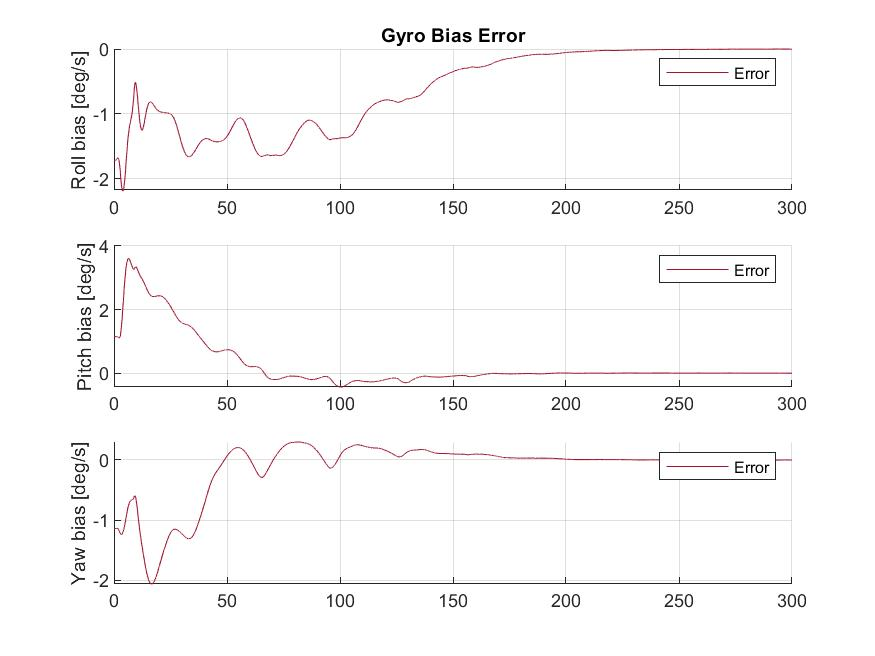
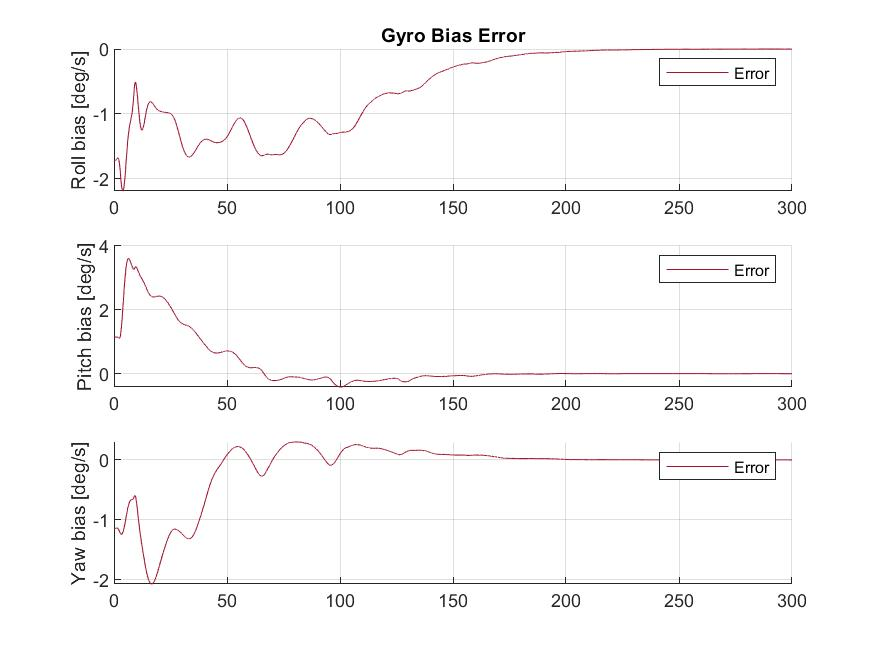
organize and comment code to increase readability a little better:)

diff --git a/ESKF/ErrorStateKalman_sola.m b/ESKF/ErrorStateKalman_sola.m
@@ -5,8 +5,8 @@ function [delta_x, E] = ErrorStateKalman_sola(r_b_1, r_b_2, r_b_3, E_prev,delta_
     Z3 = zeros(3,3);
     I3 = eye(3); 
     
-    Tacc = 1000;
-    Tars = 1000;
+    Tacc = 3600;
+    Tars = 3600;
     
     h = 1/f_low; 
     
@@ -51,22 +51,21 @@ function [delta_x, E] = ErrorStateKalman_sola(r_b_1, r_b_2, r_b_3, E_prev,delta_
        P_hat = diag([1e-1 * ones(1, 3) 1e-2 * ones(1, 3) 5e-2 * ones(1, 3) 1e-10 * ones(1, 3) 1e-6 * ones(1, 3) 1e-6 * ones(1, 3)]);  % Initial error covariance
 
        delta_x = 0;
-%        delta_q = 0;
        
     else
 %             
 %           A = [  Z3    I3        Z3                                   Z3       Z3    Z3    % dp
 %                  Z3    Z3     -R_nb    -R_nb*Smtrx(f_b_imu - bacc_b_ins)       Z3    I3    % dv
 %                  Z3    Z3        Z3                                   Z3       Z3    Z3    % dbacc
-%                  Z3    Z3        Z3      -Smtrx(omega_b_imu - bars_b_ins)     -I3    Z3    % dtheta ???????
+%                  Z3    Z3        Z3      -Smtrx(omega_b_imu - bars_b_ins)     -I3    Z3    % dtheta
 %                  Z3    Z3        Z3                                   Z3       Z3    Z3    % dbars
 %                  Z3    Z3        Z3                                   Z3       Z3    Z3] ; % dg
             
-          A = [  Z3    I3            Z3                                       Z3           Z3  Z3  % dp
-                 Z3    Z3     -R_nb_hat    -R_nb_hat*Smtrx(f_b_imu - bacc_b_ins)           Z3  I3 % dv
-                 Z3    Z3  -(1/Tacc)*I3                                       Z3           Z3  Z3 % dbacc
-                 Z3    Z3            Z3         -Smtrx(omega_b_imu - bars_b_ins)          -I3  Z3 % dtheta ???????
-                 Z3    Z3            Z3                                       Z3 -(1/Tacc)*I3  Z3   % dbars
+          A = [  Z3    I3            Z3                                       Z3           Z3  Z3   % dp
+                 Z3    Z3     -R_nb_hat    -R_nb_hat*Smtrx(f_b_imu - bacc_b_ins)           Z3  I3   % dv
+                 Z3    Z3  -(1/Tacc)*I3                                       Z3           Z3  Z3   % dbacc
+                 Z3    Z3            Z3         -Smtrx(omega_b_imu - bars_b_ins)          -I3  Z3   % dtheta
+                 Z3    Z3            Z3                                       Z3 -(1/Tars)*I3  Z3   % dbars
                  Z3    Z3            Z3                                       Z3           Z3  Z3]; % dg
              
             
@@ -82,24 +81,26 @@ function [delta_x, E] = ErrorStateKalman_sola(r_b_1, r_b_2, r_b_3, E_prev,delta_
 %           H = [ I3 Z3 Z3 Z3 Z3 Z3
 %                 I3 Z3 Z3 I3 Z3 Z3];
 
-          % Ground Speed 
-          z13 = [0 0 0];
+          % Ground Speed           
+          H_gss_pos = [ 0, 0, 0];
+          H_gss_vel = [(R_nb_hat(1,2)*(R_nb_hat(1,2)*v_n_ins(1) + R_nb_hat(2,2)*v_n_ins(2) + R_nb_hat(3,2)*v_n_ins(3) - bars_b_ins(2)*r_b_3(1) + bars_b_ins(1)*r_b_3(3) - omega_b_imu(1)*r_b_3(3) + omega_b_imu(3)*r_b_3(1)) + R_nb_hat(1,1)*(R_nb_hat(1,1)*v_n_ins(1) + R_nb_hat(1,3)*v_n_ins(2) + R_nb_hat(2,3)*v_n_ins(3) + bars_b_ins(2)*r_b_3(2) - bars_b_ins(2)*r_b_3(3) + omega_b_imu(2)*r_b_3(3) - omega_b_imu(3)*r_b_3(2)))/((R_nb_hat(1,2)*v_n_ins(1) + R_nb_hat(2,2)*v_n_ins(2) + R_nb_hat(3,2)*v_n_ins(3) - bars_b_ins(2)*r_b_3(1) + bars_b_ins(1)*r_b_3(3) - omega_b_imu(1)*r_b_3(3) + omega_b_imu(3)*r_b_3(1))^2 + (R_nb_hat(1,1)*v_n_ins(1) + R_nb_hat(1,3)*v_n_ins(2) + R_nb_hat(2,3)*v_n_ins(3) + bars_b_ins(2)*r_b_3(2) - bars_b_ins(2)*r_b_3(3) + omega_b_imu(2)*r_b_3(3) - omega_b_imu(3)*r_b_3(2))^2)^(1/2), (R_nb_hat(2,2)*(R_nb_hat(1,2)*v_n_ins(1) + R_nb_hat(2,2)*v_n_ins(2) + R_nb_hat(3,2)*v_n_ins(3) - bars_b_ins(2)*r_b_3(1) + bars_b_ins(1)*r_b_3(3) - omega_b_imu(1)*r_b_3(3) + omega_b_imu(3)*r_b_3(1)) + R_nb_hat(1,3)*(R_nb_hat(1,1)*v_n_ins(1) + R_nb_hat(1,3)*v_n_ins(2) + R_nb_hat(2,3)*v_n_ins(3) + bars_b_ins(2)*r_b_3(2) - bars_b_ins(2)*r_b_3(3) + omega_b_imu(2)*r_b_3(3) - omega_b_imu(3)*r_b_3(2)))/((R_nb_hat(1,2)*v_n_ins(1) + R_nb_hat(2,2)*v_n_ins(2) + R_nb_hat(3,2)*v_n_ins(3) - bars_b_ins(2)*r_b_3(1) + bars_b_ins(1)*r_b_3(3) - omega_b_imu(1)*r_b_3(3) + omega_b_imu(3)*r_b_3(1))^2 + (R_nb_hat(1,1)*v_n_ins(1) + R_nb_hat(1,3)*v_n_ins(2) + R_nb_hat(2,3)*v_n_ins(3) + bars_b_ins(2)*r_b_3(2) - bars_b_ins(2)*r_b_3(3) + omega_b_imu(2)*r_b_3(3) - omega_b_imu(3)*r_b_3(2))^2)^(1/2), (R_nb_hat(3,2)*(R_nb_hat(1,2)*v_n_ins(1) + R_nb_hat(2,2)*v_n_ins(2) + R_nb_hat(3,2)*v_n_ins(3) - bars_b_ins(2)*r_b_3(1) + bars_b_ins(1)*r_b_3(3) - omega_b_imu(1)*r_b_3(3) + omega_b_imu(3)*r_b_3(1)) + R_nb_hat(2,3)*(R_nb_hat(1,1)*v_n_ins(1) + R_nb_hat(1,3)*v_n_ins(2) + R_nb_hat(2,3)*v_n_ins(3) + bars_b_ins(2)*r_b_3(2) - bars_b_ins(2)*r_b_3(3) + omega_b_imu(2)*r_b_3(3) - omega_b_imu(3)*r_b_3(2)))/((R_nb_hat(1,2)*v_n_ins(1) + R_nb_hat(2,2)*v_n_ins(2) + R_nb_hat(3,2)*v_n_ins(3) - bars_b_ins(2)*r_b_3(1) + bars_b_ins(1)*r_b_3(3) - omega_b_imu(1)*r_b_3(3) + omega_b_imu(3)*r_b_3(1))^2 + (R_nb_hat(1,1)*v_n_ins(1) + R_nb_hat(1,3)*v_n_ins(2) + R_nb_hat(2,3)*v_n_ins(3) + bars_b_ins(2)*r_b_3(2) - bars_b_ins(2)*r_b_3(3) + omega_b_imu(2)*r_b_3(3) - omega_b_imu(3)*r_b_3(2))^2)^(1/2)];
+          H_gss_bacc = [0, 0, 0]; 
+          H_gss_att = [((R_nb_hat(1,3)*v_n_ins(1) + R_nb_hat(2,3)*v_n_ins(2) + R_nb_hat(3,3)*v_n_ins(3))*(R_nb_hat(1,2)*v_n_ins(1) + R_nb_hat(2,2)*v_n_ins(2) + R_nb_hat(3,2)*v_n_ins(3) - bars_b_ins(2)*r_b_3(1) + bars_b_ins(1)*r_b_3(3) - omega_b_imu(1)*r_b_3(3) + omega_b_imu(3)*r_b_3(1)))/((R_nb_hat(1,2)*v_n_ins(1) + R_nb_hat(2,2)*v_n_ins(2) + R_nb_hat(3,2)*v_n_ins(3) - bars_b_ins(2)*r_b_3(1) + bars_b_ins(1)*r_b_3(3) - omega_b_imu(1)*r_b_3(3) + omega_b_imu(3)*r_b_3(1))^2 + (R_nb_hat(1,1)*v_n_ins(1) + R_nb_hat(1,3)*v_n_ins(2) + R_nb_hat(2,3)*v_n_ins(3) + bars_b_ins(2)*r_b_3(2) - bars_b_ins(2)*r_b_3(3) + omega_b_imu(2)*r_b_3(3) - omega_b_imu(3)*r_b_3(2))^2)^(1/2), -((R_nb_hat(1,3)*v_n_ins(1) + R_nb_hat(2,3)*v_n_ins(2) + R_nb_hat(3,3)*v_n_ins(3))*(R_nb_hat(1,1)*v_n_ins(1) + R_nb_hat(1,3)*v_n_ins(2) + R_nb_hat(2,3)*v_n_ins(3) + bars_b_ins(2)*r_b_3(2) - bars_b_ins(2)*r_b_3(3) + omega_b_imu(2)*r_b_3(3) - omega_b_imu(3)*r_b_3(2)))/((R_nb_hat(1,2)*v_n_ins(1) + R_nb_hat(2,2)*v_n_ins(2) + R_nb_hat(3,2)*v_n_ins(3) - bars_b_ins(2)*r_b_3(1) + bars_b_ins(1)*r_b_3(3) - omega_b_imu(1)*r_b_3(3) + omega_b_imu(3)*r_b_3(1))^2 + (R_nb_hat(1,1)*v_n_ins(1) + R_nb_hat(1,3)*v_n_ins(2) + R_nb_hat(2,3)*v_n_ins(3) + bars_b_ins(2)*r_b_3(2) - bars_b_ins(2)*r_b_3(3) + omega_b_imu(2)*r_b_3(3) - omega_b_imu(3)*r_b_3(2))^2)^(1/2), -(2*(R_nb_hat(1,1)*v_n_ins(1) + R_nb_hat(1,3)*v_n_ins(2) + R_nb_hat(2,3)*v_n_ins(3))*(R_nb_hat(1,2)*v_n_ins(1) + R_nb_hat(2,2)*v_n_ins(2) + R_nb_hat(3,2)*v_n_ins(3) - bars_b_ins(2)*r_b_3(1) + bars_b_ins(1)*r_b_3(3) - omega_b_imu(1)*r_b_3(3) + omega_b_imu(3)*r_b_3(1)) - 2*(R_nb_hat(1,2)*v_n_ins(1) + R_nb_hat(2,2)*v_n_ins(2) + R_nb_hat(3,2)*v_n_ins(3))*(R_nb_hat(1,1)*v_n_ins(1) + R_nb_hat(1,3)*v_n_ins(2) + R_nb_hat(2,3)*v_n_ins(3) + bars_b_ins(2)*r_b_3(2) - bars_b_ins(2)*r_b_3(3) + omega_b_imu(2)*r_b_3(3) - omega_b_imu(3)*r_b_3(2)))/(2*((R_nb_hat(1,2)*v_n_ins(1) + R_nb_hat(2,2)*v_n_ins(2) + R_nb_hat(3,2)*v_n_ins(3) - bars_b_ins(2)*r_b_3(1) + bars_b_ins(1)*r_b_3(3) - omega_b_imu(1)*r_b_3(3) + omega_b_imu(3)*r_b_3(1))^2 + (R_nb_hat(1,1)*v_n_ins(1) + R_nb_hat(1,3)*v_n_ins(2) + R_nb_hat(2,3)*v_n_ins(3) + bars_b_ins(2)*r_b_3(2) - bars_b_ins(2)*r_b_3(3) + omega_b_imu(2)*r_b_3(3) - omega_b_imu(3)*r_b_3(2))^2)^(1/2))];
+          H_gss_bars = [(r_b_3(3)*(R_nb_hat(1,2)*v_n_ins(1) + R_nb_hat(2,2)*v_n_ins(2) + R_nb_hat(3,2)*v_n_ins(3) - bars_b_ins(2)*r_b_3(1) + bars_b_ins(1)*r_b_3(3) - omega_b_imu(1)*r_b_3(3) + omega_b_imu(3)*r_b_3(1)))/((R_nb_hat(1,2)*v_n_ins(1) + R_nb_hat(2,2)*v_n_ins(2) + R_nb_hat(3,2)*v_n_ins(3) - bars_b_ins(2)*r_b_3(1) + bars_b_ins(1)*r_b_3(3) - omega_b_imu(1)*r_b_3(3) + omega_b_imu(3)*r_b_3(1))^2 + (R_nb_hat(1,1)*v_n_ins(1) + R_nb_hat(1,3)*v_n_ins(2) + R_nb_hat(2,3)*v_n_ins(3) + bars_b_ins(2)*r_b_3(2) - bars_b_ins(2)*r_b_3(3) + omega_b_imu(2)*r_b_3(3) - omega_b_imu(3)*r_b_3(2))^2)^(1/2), -(r_b_3(3)*(R_nb_hat(1,1)*v_n_ins(1) + R_nb_hat(1,3)*v_n_ins(2) + R_nb_hat(2,3)*v_n_ins(3) + bars_b_ins(2)*r_b_3(2) - bars_b_ins(2)*r_b_3(3) + omega_b_imu(2)*r_b_3(3) - omega_b_imu(3)*r_b_3(2)))/((R_nb_hat(1,2)*v_n_ins(1) + R_nb_hat(2,2)*v_n_ins(2) + R_nb_hat(3,2)*v_n_ins(3) - bars_b_ins(2)*r_b_3(1) + bars_b_ins(1)*r_b_3(3) - omega_b_imu(1)*r_b_3(3) + omega_b_imu(3)*r_b_3(1))^2 + (R_nb_hat(1,1)*v_n_ins(1) + R_nb_hat(1,3)*v_n_ins(2) + R_nb_hat(2,3)*v_n_ins(3) + bars_b_ins(2)*r_b_3(2) - bars_b_ins(2)*r_b_3(3) + omega_b_imu(2)*r_b_3(3) - omega_b_imu(3)*r_b_3(2))^2)^(1/2), -(r_b_3(1)*(R_nb_hat(1,2)*v_n_ins(1) + R_nb_hat(2,2)*v_n_ins(2) + R_nb_hat(3,2)*v_n_ins(3) - bars_b_ins(2)*r_b_3(1) + bars_b_ins(1)*r_b_3(3) - omega_b_imu(1)*r_b_3(3) + omega_b_imu(3)*r_b_3(1)) - r_b_3(2)*(R_nb_hat(1,1)*v_n_ins(1) + R_nb_hat(1,3)*v_n_ins(2) + R_nb_hat(2,3)*v_n_ins(3) + bars_b_ins(2)*r_b_3(2) - bars_b_ins(2)*r_b_3(3) + omega_b_imu(2)*r_b_3(3) - omega_b_imu(3)*r_b_3(2)))/((R_nb_hat(1,2)*v_n_ins(1) + R_nb_hat(2,2)*v_n_ins(2) + R_nb_hat(3,2)*v_n_ins(3) - bars_b_ins(2)*r_b_3(1) + bars_b_ins(1)*r_b_3(3) - omega_b_imu(1)*r_b_3(3) + omega_b_imu(3)*r_b_3(1))^2 + (R_nb_hat(1,1)*v_n_ins(1) + R_nb_hat(1,3)*v_n_ins(2) + R_nb_hat(2,3)*v_n_ins(3) + bars_b_ins(2)*r_b_3(2) - bars_b_ins(2)*r_b_3(3) + omega_b_imu(2)*r_b_3(3) - omega_b_imu(3)*r_b_3(2))^2)^(1/2)]; 
+          H_gss_g = [0, 0, 0];
           
-          H_gss = [ 0, 0, 0, (R_nb_hat(1,2)*(R_nb_hat(1,2)*v_n_ins(1) + R_nb_hat(2,2)*v_n_ins(2) + R_nb_hat(3,2)*v_n_ins(3) - bars_b_ins(2)*r_b_3(1) + bars_b_ins(1)*r_b_3(3) - omega_b_imu(1)*r_b_3(3) + omega_b_imu(3)*r_b_3(1)) + R_nb_hat(1,1)*(R_nb_hat(1,1)*v_n_ins(1) + R_nb_hat(1,3)*v_n_ins(2) + R_nb_hat(2,3)*v_n_ins(3) + bars_b_ins(2)*r_b_3(2) - bars_b_ins(2)*r_b_3(3) + omega_b_imu(2)*r_b_3(3) - omega_b_imu(3)*r_b_3(2)))/((R_nb_hat(1,2)*v_n_ins(1) + R_nb_hat(2,2)*v_n_ins(2) + R_nb_hat(3,2)*v_n_ins(3) - bars_b_ins(2)*r_b_3(1) + bars_b_ins(1)*r_b_3(3) - omega_b_imu(1)*r_b_3(3) + omega_b_imu(3)*r_b_3(1))^2 + (R_nb_hat(1,1)*v_n_ins(1) + R_nb_hat(1,3)*v_n_ins(2) + R_nb_hat(2,3)*v_n_ins(3) + bars_b_ins(2)*r_b_3(2) - bars_b_ins(2)*r_b_3(3) + omega_b_imu(2)*r_b_3(3) - omega_b_imu(3)*r_b_3(2))^2)^(1/2), (R_nb_hat(2,2)*(R_nb_hat(1,2)*v_n_ins(1) + R_nb_hat(2,2)*v_n_ins(2) + R_nb_hat(3,2)*v_n_ins(3) - bars_b_ins(2)*r_b_3(1) + bars_b_ins(1)*r_b_3(3) - omega_b_imu(1)*r_b_3(3) + omega_b_imu(3)*r_b_3(1)) + R_nb_hat(1,3)*(R_nb_hat(1,1)*v_n_ins(1) + R_nb_hat(1,3)*v_n_ins(2) + R_nb_hat(2,3)*v_n_ins(3) + bars_b_ins(2)*r_b_3(2) - bars_b_ins(2)*r_b_3(3) + omega_b_imu(2)*r_b_3(3) - omega_b_imu(3)*r_b_3(2)))/((R_nb_hat(1,2)*v_n_ins(1) + R_nb_hat(2,2)*v_n_ins(2) + R_nb_hat(3,2)*v_n_ins(3) - bars_b_ins(2)*r_b_3(1) + bars_b_ins(1)*r_b_3(3) - omega_b_imu(1)*r_b_3(3) + omega_b_imu(3)*r_b_3(1))^2 + (R_nb_hat(1,1)*v_n_ins(1) + R_nb_hat(1,3)*v_n_ins(2) + R_nb_hat(2,3)*v_n_ins(3) + bars_b_ins(2)*r_b_3(2) - bars_b_ins(2)*r_b_3(3) + omega_b_imu(2)*r_b_3(3) - omega_b_imu(3)*r_b_3(2))^2)^(1/2), (R_nb_hat(3,2)*(R_nb_hat(1,2)*v_n_ins(1) + R_nb_hat(2,2)*v_n_ins(2) + R_nb_hat(3,2)*v_n_ins(3) - bars_b_ins(2)*r_b_3(1) + bars_b_ins(1)*r_b_3(3) - omega_b_imu(1)*r_b_3(3) + omega_b_imu(3)*r_b_3(1)) + R_nb_hat(2,3)*(R_nb_hat(1,1)*v_n_ins(1) + R_nb_hat(1,3)*v_n_ins(2) + R_nb_hat(2,3)*v_n_ins(3) + bars_b_ins(2)*r_b_3(2) - bars_b_ins(2)*r_b_3(3) + omega_b_imu(2)*r_b_3(3) - omega_b_imu(3)*r_b_3(2)))/((R_nb_hat(1,2)*v_n_ins(1) + R_nb_hat(2,2)*v_n_ins(2) + R_nb_hat(3,2)*v_n_ins(3) - bars_b_ins(2)*r_b_3(1) + bars_b_ins(1)*r_b_3(3) - omega_b_imu(1)*r_b_3(3) + omega_b_imu(3)*r_b_3(1))^2 + (R_nb_hat(1,1)*v_n_ins(1) + R_nb_hat(1,3)*v_n_ins(2) + R_nb_hat(2,3)*v_n_ins(3) + bars_b_ins(2)*r_b_3(2) - bars_b_ins(2)*r_b_3(3) + omega_b_imu(2)*r_b_3(3) - omega_b_imu(3)*r_b_3(2))^2)^(1/2), 0, 0, 0, ((R_nb_hat(1,3)*v_n_ins(1) + R_nb_hat(2,3)*v_n_ins(2) + R_nb_hat(3,3)*v_n_ins(3))*(R_nb_hat(1,2)*v_n_ins(1) + R_nb_hat(2,2)*v_n_ins(2) + R_nb_hat(3,2)*v_n_ins(3) - bars_b_ins(2)*r_b_3(1) + bars_b_ins(1)*r_b_3(3) - omega_b_imu(1)*r_b_3(3) + omega_b_imu(3)*r_b_3(1)))/((R_nb_hat(1,2)*v_n_ins(1) + R_nb_hat(2,2)*v_n_ins(2) + R_nb_hat(3,2)*v_n_ins(3) - bars_b_ins(2)*r_b_3(1) + bars_b_ins(1)*r_b_3(3) - omega_b_imu(1)*r_b_3(3) + omega_b_imu(3)*r_b_3(1))^2 + (R_nb_hat(1,1)*v_n_ins(1) + R_nb_hat(1,3)*v_n_ins(2) + R_nb_hat(2,3)*v_n_ins(3) + bars_b_ins(2)*r_b_3(2) - bars_b_ins(2)*r_b_3(3) + omega_b_imu(2)*r_b_3(3) - omega_b_imu(3)*r_b_3(2))^2)^(1/2), -((R_nb_hat(1,3)*v_n_ins(1) + R_nb_hat(2,3)*v_n_ins(2) + R_nb_hat(3,3)*v_n_ins(3))*(R_nb_hat(1,1)*v_n_ins(1) + R_nb_hat(1,3)*v_n_ins(2) + R_nb_hat(2,3)*v_n_ins(3) + bars_b_ins(2)*r_b_3(2) - bars_b_ins(2)*r_b_3(3) + omega_b_imu(2)*r_b_3(3) - omega_b_imu(3)*r_b_3(2)))/((R_nb_hat(1,2)*v_n_ins(1) + R_nb_hat(2,2)*v_n_ins(2) + R_nb_hat(3,2)*v_n_ins(3) - bars_b_ins(2)*r_b_3(1) + bars_b_ins(1)*r_b_3(3) - omega_b_imu(1)*r_b_3(3) + omega_b_imu(3)*r_b_3(1))^2 + (R_nb_hat(1,1)*v_n_ins(1) + R_nb_hat(1,3)*v_n_ins(2) + R_nb_hat(2,3)*v_n_ins(3) + bars_b_ins(2)*r_b_3(2) - bars_b_ins(2)*r_b_3(3) + omega_b_imu(2)*r_b_3(3) - omega_b_imu(3)*r_b_3(2))^2)^(1/2), -(2*(R_nb_hat(1,1)*v_n_ins(1) + R_nb_hat(1,3)*v_n_ins(2) + R_nb_hat(2,3)*v_n_ins(3))*(R_nb_hat(1,2)*v_n_ins(1) + R_nb_hat(2,2)*v_n_ins(2) + R_nb_hat(3,2)*v_n_ins(3) - bars_b_ins(2)*r_b_3(1) + bars_b_ins(1)*r_b_3(3) - omega_b_imu(1)*r_b_3(3) + omega_b_imu(3)*r_b_3(1)) - 2*(R_nb_hat(1,2)*v_n_ins(1) + R_nb_hat(2,2)*v_n_ins(2) + R_nb_hat(3,2)*v_n_ins(3))*(R_nb_hat(1,1)*v_n_ins(1) + R_nb_hat(1,3)*v_n_ins(2) + R_nb_hat(2,3)*v_n_ins(3) + bars_b_ins(2)*r_b_3(2) - bars_b_ins(2)*r_b_3(3) + omega_b_imu(2)*r_b_3(3) - omega_b_imu(3)*r_b_3(2)))/(2*((R_nb_hat(1,2)*v_n_ins(1) + R_nb_hat(2,2)*v_n_ins(2) + R_nb_hat(3,2)*v_n_ins(3) - bars_b_ins(2)*r_b_3(1) + bars_b_ins(1)*r_b_3(3) - omega_b_imu(1)*r_b_3(3) + omega_b_imu(3)*r_b_3(1))^2 + (R_nb_hat(1,1)*v_n_ins(1) + R_nb_hat(1,3)*v_n_ins(2) + R_nb_hat(2,3)*v_n_ins(3) + bars_b_ins(2)*r_b_3(2) - bars_b_ins(2)*r_b_3(3) + omega_b_imu(2)*r_b_3(3) - omega_b_imu(3)*r_b_3(2))^2)^(1/2)), (r_b_3(3)*(R_nb_hat(1,2)*v_n_ins(1) + R_nb_hat(2,2)*v_n_ins(2) + R_nb_hat(3,2)*v_n_ins(3) - bars_b_ins(2)*r_b_3(1) + bars_b_ins(1)*r_b_3(3) - omega_b_imu(1)*r_b_3(3) + omega_b_imu(3)*r_b_3(1)))/((R_nb_hat(1,2)*v_n_ins(1) + R_nb_hat(2,2)*v_n_ins(2) + R_nb_hat(3,2)*v_n_ins(3) - bars_b_ins(2)*r_b_3(1) + bars_b_ins(1)*r_b_3(3) - omega_b_imu(1)*r_b_3(3) + omega_b_imu(3)*r_b_3(1))^2 + (R_nb_hat(1,1)*v_n_ins(1) + R_nb_hat(1,3)*v_n_ins(2) + R_nb_hat(2,3)*v_n_ins(3) + bars_b_ins(2)*r_b_3(2) - bars_b_ins(2)*r_b_3(3) + omega_b_imu(2)*r_b_3(3) - omega_b_imu(3)*r_b_3(2))^2)^(1/2), -(r_b_3(3)*(R_nb_hat(1,1)*v_n_ins(1) + R_nb_hat(1,3)*v_n_ins(2) + R_nb_hat(2,3)*v_n_ins(3) + bars_b_ins(2)*r_b_3(2) - bars_b_ins(2)*r_b_3(3) + omega_b_imu(2)*r_b_3(3) - omega_b_imu(3)*r_b_3(2)))/((R_nb_hat(1,2)*v_n_ins(1) + R_nb_hat(2,2)*v_n_ins(2) + R_nb_hat(3,2)*v_n_ins(3) - bars_b_ins(2)*r_b_3(1) + bars_b_ins(1)*r_b_3(3) - omega_b_imu(1)*r_b_3(3) + omega_b_imu(3)*r_b_3(1))^2 + (R_nb_hat(1,1)*v_n_ins(1) + R_nb_hat(1,3)*v_n_ins(2) + R_nb_hat(2,3)*v_n_ins(3) + bars_b_ins(2)*r_b_3(2) - bars_b_ins(2)*r_b_3(3) + omega_b_imu(2)*r_b_3(3) - omega_b_imu(3)*r_b_3(2))^2)^(1/2), -(r_b_3(1)*(R_nb_hat(1,2)*v_n_ins(1) + R_nb_hat(2,2)*v_n_ins(2) + R_nb_hat(3,2)*v_n_ins(3) - bars_b_ins(2)*r_b_3(1) + bars_b_ins(1)*r_b_3(3) - omega_b_imu(1)*r_b_3(3) + omega_b_imu(3)*r_b_3(1)) - r_b_3(2)*(R_nb_hat(1,1)*v_n_ins(1) + R_nb_hat(1,3)*v_n_ins(2) + R_nb_hat(2,3)*v_n_ins(3) + bars_b_ins(2)*r_b_3(2) - bars_b_ins(2)*r_b_3(3) + omega_b_imu(2)*r_b_3(3) - omega_b_imu(3)*r_b_3(2)))/((R_nb_hat(1,2)*v_n_ins(1) + R_nb_hat(2,2)*v_n_ins(2) + R_nb_hat(3,2)*v_n_ins(3) - bars_b_ins(2)*r_b_3(1) + bars_b_ins(1)*r_b_3(3) - omega_b_imu(1)*r_b_3(3) + omega_b_imu(3)*r_b_3(1))^2 + (R_nb_hat(1,1)*v_n_ins(1) + R_nb_hat(1,3)*v_n_ins(2) + R_nb_hat(2,3)*v_n_ins(3) + bars_b_ins(2)*r_b_3(2) - bars_b_ins(2)*r_b_3(3) + omega_b_imu(2)*r_b_3(3) - omega_b_imu(3)*r_b_3(2))^2)^(1/2), 0, 0, 0];
           
           
-          
-          H = [ I3         Z3  Z3 -R_nb_hat*Smtrx(r_b_1)         Z3 Z3   % gnss_1
-                I3         Z3  Z3 -R_nb_hat*Smtrx(r_b_2)         Z3 Z3   % gnss_2
-                H_gss ];
-%                 z13  H_gss_vel  z13              H_gss_att H_gss_bars z13]; % ground_speed
-%                 Z3 Z3 Z3                     I3 Z3]; % delta_theta
+          H = [        I3         Z3          Z3  -R_nb_hat*Smtrx(r_b_1)          Z3       Z3   % gnss_1
+                       I3         Z3          Z3  -R_nb_hat*Smtrx(r_b_2)          Z3       Z3   % gnss_2
+                H_gss_pos  H_gss_vel  H_gss_bacc               H_gss_att  H_gss_bars  H_gss_g]; % ground speed
+%                        Z3         Z3          Z3                      I3          Z3       Z3]; % delta_theta
                
 %          M = rref(obsv(A,H))  
          rank(obsv(A,H))
 
           
-          % Discrete-time model
+         % Discrete-time model
          Ad = eye(18) + h * A;
         
          % KF gain

diff --git a/ESKF/MESKF_sola.m b/ESKF/MESKF_sola.m
@@ -100,12 +100,13 @@ for k = 1:N
    % update nominal states with imu input
    p_n_ins = p_n_ins + (h * v_n_ins) + (0.5 * h * h * a_n_ins);
    v_n_ins = v_n_ins +  (h * a_n_ins);
-%    bacc_b_ins = bacc_b_ins;
+  %bacc_b_ins = bacc_b_ins;
    q_n_ins = quatprod(q_n_ins, q_omega_b_ins); 
    q_n_ins = q_n_ins/norm(q_n_ins);
-%    bars_b_ins = bars_b_ins;
+  %bars_b_ins = bars_b_ins;
    
    x_ins = [p_n_ins ; v_n_ins ; bacc_b_ins ; q_n_ins ; bars_b_ins];
+   
    
    count = count + 1;
 
@@ -113,52 +114,55 @@ for k = 1:N
         count = 0;
         
         % noisy measurements
-        p_meas = p_n_nb(1:3,k) +  0.001 * wgn(3, 1, 1);
-        q_meas = q_nb(1:4,k) + 0.00005 * wgn(4, 1, 1);
-        
-        q_conj = quatconj(q_n_ins')';
-        delta_q = quatprod(q_conj, q_meas);
-        delta_theta = 2*delta_q(2:4);
+%         p_meas = p_n_nb(1:3,k) +  0.001 * wgn(3, 1, 1);
+%         q_meas = q_nb(1:4,k) + 0.00005 * wgn(4, 1, 1);
+%         
+%         q_conj = quatconj(q_n_ins')';
+%         delta_q = quatprod(q_conj, q_meas);
+%         delta_theta = 2*delta_q(2:4);
         
 %         p_gnss_1 = p_n_nb(1:3,k) + I3*R_nb_ins*r_b_1 - Smtrx(R_nb_ins*r_b_1)*delta_theta;
 %         p_gnss_2 = p_n_nb(1:3,k) + I3*R_nb_ins*r_b_2 - Smtrx(R_nb_ins*r_b_2)*delta_theta;
         
+        % dual gnss position meas
         R_nb_t = Rquat(q_nb(1:4,k)');
-        
         p_gnss_1 = p_n_nb(1:3,k) + R_nb_t * r_b_1;
         p_gnss_2 = p_n_nb(1:3,k) + R_nb_t * r_b_2;
 %         p_gnss_3 = p_n_nb(1:3,k) + R_nb_t * r_b_3;
-%         v_gss = v_n_nb(1:3,k) + R_nb_t * r_b_3;
-        H_gss_alloc = [1 0 0; 0 1 0; 0 0 0];
-        v_gss = H_gss_alloc*( R_nb_ins'*v_n_nb(1:3,k) + Smtrx( omega_b_imu(:,k) - bars_b_nb)*r_b_3 );
-        v_gss = norm( v_gss );
-        
 
+        % corresponding position estimates
         p_hat_1 = p_n_ins + R_nb_ins * r_b_1;
         p_hat_2 = p_n_ins + R_nb_ins * r_b_2;
 %         p_hat_3 = p_n_ins + R_nb_ins * r_b_3;
-%         v_hat = v_n_ins + R_nb_ins * r_b_3;
+        
+        % ground speed velocity meas
+        H_gss_alloc = [1 0 0; 0 1 0; 0 0 0];
+        v_gss = H_gss_alloc*( R_nb_ins'*v_n_nb(1:3,k) + Smtrx( omega_b_imu(:,k) - bars_b_nb)*r_b_3 );
+        v_gss = norm( v_gss );
+
+        % corresponding velocity estimates
         v_hat = R_nb_ins' * v_n_ins - r_b_3(3)*(bars_b_ins(2) - omega_b_imu(2,k)) + r_b_3(2)*(bars_b_ins(3) - omega_b_imu(3,k));
         v_hat = norm(v_hat);
         
+        % compute difference 
 %         delta_y = [(p_gnss_1 - p_hat_1) ; (p_gnss_2 - p_hat_2); (p_gnss_3 - p_hat_3); delta_theta]; 
 %         delta_y = [(p_gnss_1 - p_hat_1) ; (p_gnss_2 - p_hat_2); delta_theta]; 
         delta_y = [(p_gnss_1 - p_hat_1) ; (p_gnss_2 - p_hat_2) ; (v_gss - v_hat)];
+        
         % compute error state with ESKF
         [delta_x, E_prev] = ErrorStateKalman_sola(r_b_1, r_b_2,r_b_3, E_prev, delta_y, R_nb_ins, f_low, 0, f_b_imu(:,k), omega_b_imu(:,k), g_n_nb, x_ins);
        
-        % inject error into nominal state
+        % inject error state into nominal state
         x_ins(1:9) = x_ins(1:9) + delta_x(1:9);
         x_ins(14:16) = x_ins(14:16) + delta_x(13:15);
-        
         g_n_nb = g_n_nb + delta_x(16:18);
-        
         h_low = 1/10;
         q_delta_omega = qbuild(delta_x(10:12)/h_low, h_low);
         x_ins(10:13) = quatprod(x_ins(10:13), q_delta_omega);
 %         delta_q = [1 ; 0.5*delta_x(10:12)];
 %         x_ins(10:13) = quatprod(x_ins(10:13), delta_q);
         x_ins(10:13) = x_ins(10:13)/norm(x_ins(10:13)); 
+        
    end
     
    
@@ -166,9 +170,7 @@ end
 
 
 % PLOTS
-   
-% PLOTS
-   
+      
 % POSITION
 figure(1)
 figure(gcf);
